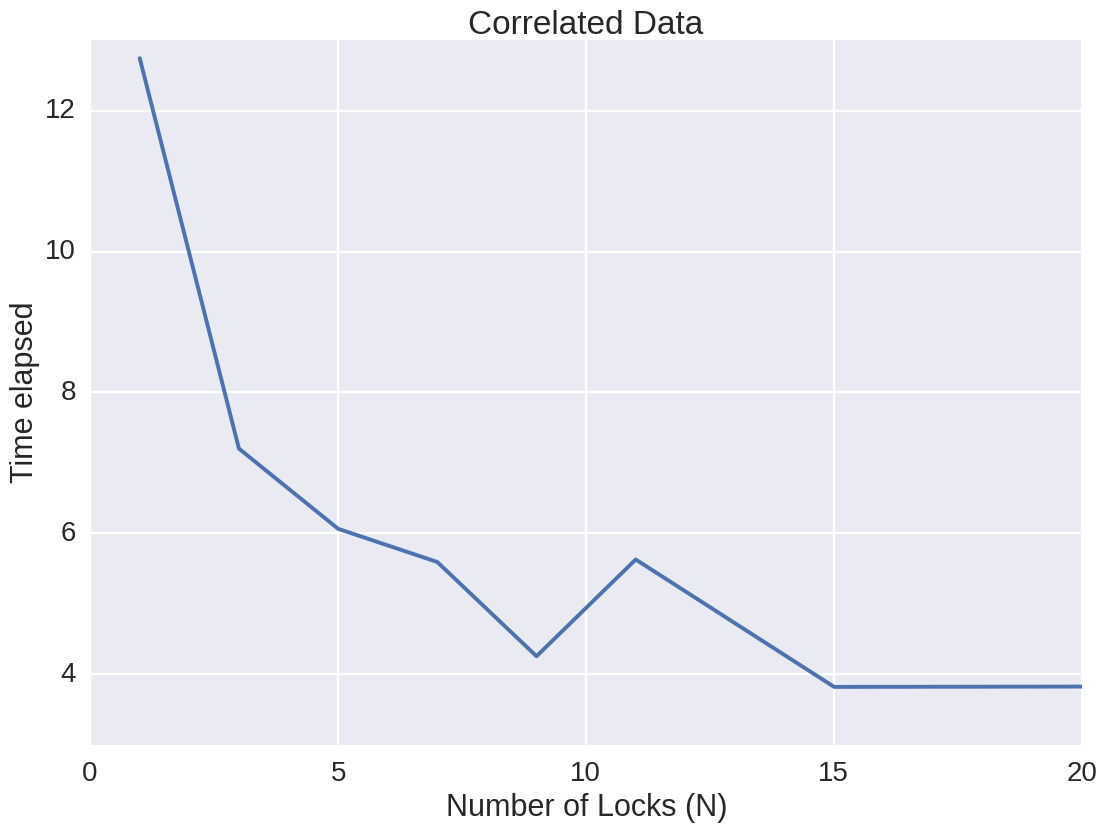
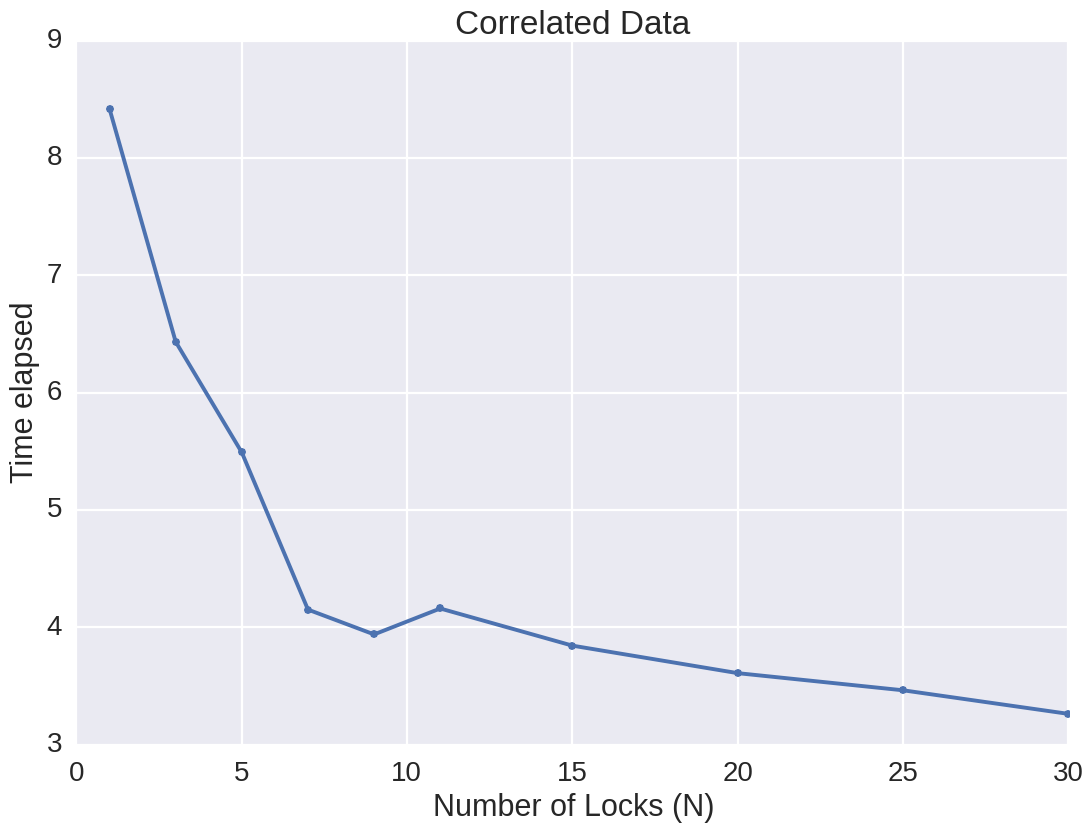
The final lock has a couple extra elements now. We can now specify any N to use.

diff --git a/HW2/P2/P2_make_medium_grained_plot.py b/HW2/P2/P2_make_medium_grained_plot.py
@@ -41,9 +41,10 @@ if __name__ == '__main__':
     # You should explore different values for the number of locks in the medium
     # grained locking
     ########################################
-    N_list = [1, 3, 5, 7, 9, 11, 15, 20]
+    N_list = [1, 2, 3, 4, 5, 7, 9, 11, 15, 20, 30, 40, 50, 100]
     t_list = []
     for N in N_list:
+        print N
         counts[:] = orig_counts
         with Timer() as t:
             move_data_medium_grained(counts, src, dest, 100, N)
@@ -52,7 +53,7 @@ if __name__ == '__main__':
         t_list.append(t.interval)
 
     plt.plot(N_list, t_list, marker='.', ls='-')
-    plt.xlabel('Number of Locks (N)')
+    plt.xlabel('N')
     plt.ylabel('Time elapsed')
     plt.title('Uncorrelated Data')
 
@@ -75,6 +76,7 @@ if __name__ == '__main__':
     counts[:] = orig_counts
     t_list = []
     for N in N_list:
+        print N
         with Timer() as t:
             move_data_medium_grained(counts, src, dest, 100, N)
         assert counts.sum() == total, "Wrong total after move_data_medium_grained"
@@ -82,7 +84,7 @@ if __name__ == '__main__':
         t_list.append(t.interval)
 
     plt.plot(N_list, t_list, marker='.', ls='-')
-    plt.xlabel('Number of Locks (N)')
+    plt.xlabel('N')
     plt.ylabel('Time elapsed')
     plt.title('Correlated Data')
 

diff --git a/HW2/P2/P2.py b/HW2/P2/P2.py
@@ -45,7 +45,7 @@ if __name__ == '__main__':
     # You should explore different values for the number of locks in the medium
     # grained locking
     ########################################
-    N = 5
+    N = 33
     print 'Number of locks for medium:' , N
     counts[:] = orig_counts
     with Timer() as t:
